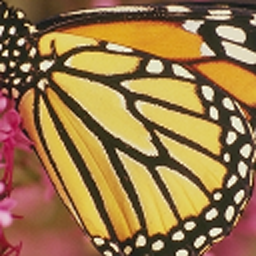
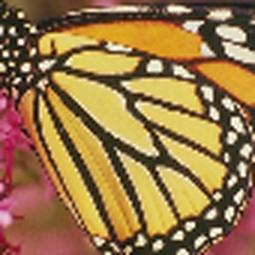
new butterfly up scale 3

diff --git a/main.py b/main.py
@@ -7,7 +7,7 @@ flags.DEFINE_integer("image_size", 33, "The size of image input")
 flags.DEFINE_integer("label_size", 21, "The size of image output")
 flags.DEFINE_integer("c_dim", 3, "The size of channel")
 flags.DEFINE_boolean("is_train", False, "if the train")
-flags.DEFINE_integer("scale", 2, "the size of scale factor for preprocessing input image")
+flags.DEFINE_integer("scale", 3, "the size of scale factor for preprocessing input image")
 flags.DEFINE_integer("stride", 21, "the size of stride")
 flags.DEFINE_string("checkpoint_dir", "checkpoint", "Name of checkpoint directory")
 flags.DEFINE_float("learning_rate", 1e-4 , "The learning rate")
